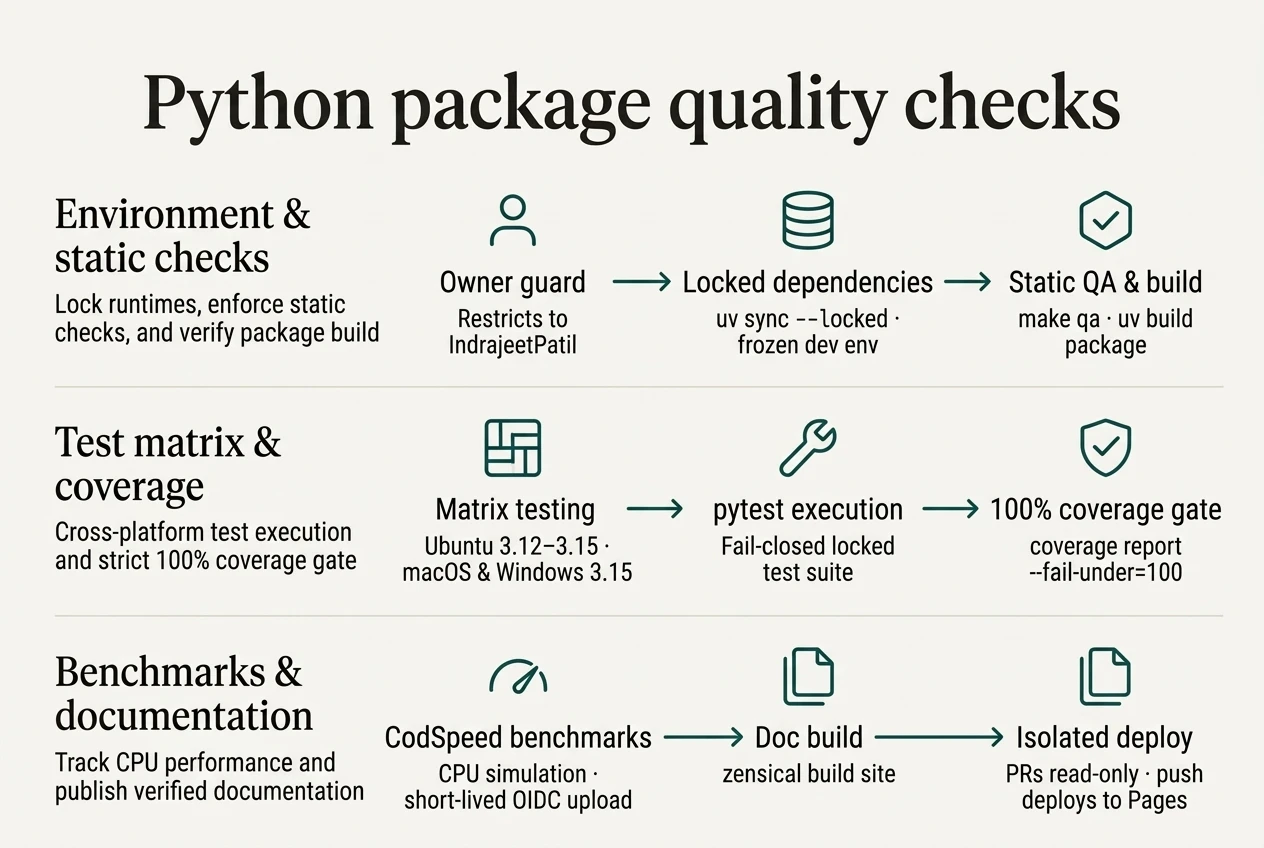
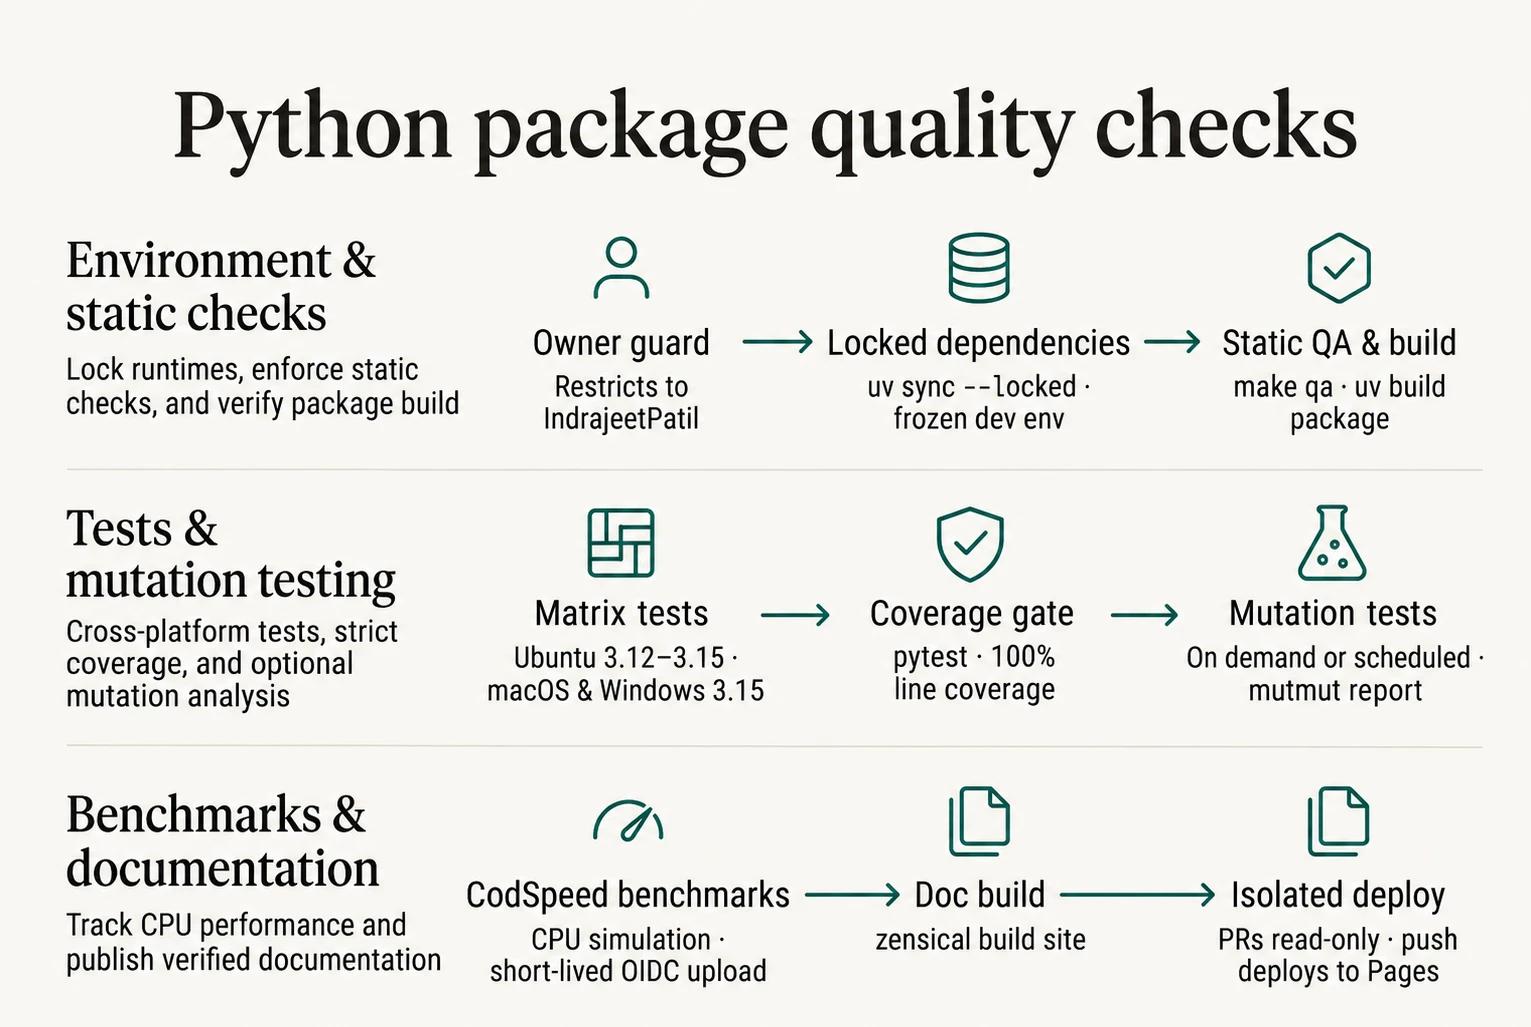
docs(workflows): document web application workflows (#148)
## Summary

- Document usage for generic checks and web application workflows.
- Add web applications as a distinct family in the README and its
illustration.
- Update the Python package quality illustration and its prompt to show
the
  mutation-testing workflow.

## Drive-by cleanup

- Correct the catalogue description for the R formatting workflow: it
checks
  formatting and does not suggest or apply changes.

## Validation

- `git diff --check`
- Commit hooks passed, including Markdown lint and spelling.

diff --git a/docs/workflow-catalogue.md b/docs/workflow-catalogue.md
@@ -10,11 +10,11 @@ permissions.
 |----------|-------------|--------|
 | [`python-benchmarks.yaml`](../.github/workflows/python-benchmarks.yaml) | Run CodSpeed CPU simulation benchmarks with OIDC uploads | — |
 | [`python-docs.yaml`](../.github/workflows/python-docs.yaml) | Build and deploy Python package documentation to GitHub Pages | — |
-| [`python-mutation-test.yaml`](../.github/workflows/python-mutation-test.yaml) | Run `make mutation-test` with mutmut and upload the `mutants/` report | — |
+| [`python-mutation-test.yaml`](../.github/workflows/python-mutation-test.yaml) | Run `make mutation-test` with mutmut and upload the `mutants/` report even when mutation testing fails | — |
 | [`python-qa.yaml`](../.github/workflows/python-qa.yaml) | Code quality checks, including build and test coverage | — |
 | [`python-test.yaml`](../.github/workflows/python-test.yaml) | Run tests across multiple OS and Python versions | — |
 
-![Python package quality checks: three bands covering environment and static checks, cross-platform test matrix with strict coverage gates, and CPU benchmarks with documentation deployment.](figures/python-package-quality-checks.webp)
+![Python package quality checks: three bands covering environment and static checks, cross-platform tests with coverage and mutation analysis, and CPU benchmarks with documentation deployment.](figures/python-package-quality-checks.webp)
 
 Python package workflows enforce quality gates across three stages:
 
@@ -54,7 +54,7 @@ presentation cells. `prek` itself remains colorized via the `prek-action` defaul
 | Workflow | Description | Inputs / secrets |
 |----------|-------------|--------|
 | [`check-docs.yaml`](../.github/workflows/check-docs.yaml) | Check for broken links using [lychee](https://github.com/lycheeverse/lychee) and spelling using [typos](https://github.com/crate-ci/typos) | — |
-| [`check-formatting.yaml`](../.github/workflows/check-formatting.yaml) | Check and suggest code formatting using [air](https://github.com/posit-dev/air) | — |
+| [`check-formatting.yaml`](../.github/workflows/check-formatting.yaml) | Check R code formatting using [air](https://github.com/posit-dev/air) | — |
 | [`r-benchmarks.yaml`](../.github/workflows/r-benchmarks.yaml) | Benchmark main R API functions with the CodSpeed executable harness and OIDC uploads | — |
 | [`R-CMD-check.yaml`](../.github/workflows/R-CMD-check.yaml) | R CMD check across multiple operating systems plus current, devel, and previous R releases; use `hard: true` for a hard-deps-only CI check (PR-only) | `hard` |
 | [`check-extra.yaml`](../.github/workflows/check-extra.yaml) | Parallel extra checks: no-warnings, random test order, README render | `extra-packages` |
@@ -135,18 +135,14 @@ Both presentation workflows enforce quality gates across three stages:
 
 ## Generic
 
-Generic workflows are language-agnostic and provide utility across diverse
-types of projects, ensuring high code quality and robust documentation
-regardless of the underlying tech stack.
+Generic workflows provide repository checks that apply across language and
+project types.
 
 | Workflow | Description | Inputs / secrets |
 |----------|-------------|--------|
 | [`check-link-rot.yaml`](../.github/workflows/check-link-rot.yaml) | Check for broken links using [lychee](https://github.com/lycheeverse/lychee) | — |
 | [`conventional-commits.yaml`](../.github/workflows/conventional-commits.yaml) | Check every pull-request commit and the pull-request title (the default squash subject) against [Conventional Commits](https://www.conventionalcommits.org) | `extra-types` |
-| [`e2e.yaml`](../.github/workflows/e2e.yaml) | Run Playwright end-to-end tests against web apps with Vite+, uploading report artifacts | — |
-| [`lighthouse.yaml`](../.github/workflows/lighthouse.yaml) | Run Lighthouse CI audits against web apps with Vite+, uploading report artifacts | `command`, `reports-path` |
 | [`prek.yml`](../.github/workflows/prek.yml) | Run every [prek](https://prek.j178.dev/) hook in the caller's config, with no `SKIP` list; fails if a hook would modify files | — |
-| [`prek-web-app.yml`](../.github/workflows/prek-web-app.yml) | `prek.yml` for web apps: installs Vite+ and the locked dependencies first, and passes hooks no GitHub token | — |
 
 Trigger `conventional-commits.yaml` on the `edited` pull-request activity as
 well, so a corrected title is re-checked. Keep it in its own caller workflow:
@@ -170,3 +166,54 @@ jobs:
   conventional-commits:
     uses: IndrajeetPatil/workflows/.github/workflows/conventional-commits.yaml@main
 ```
+
+### Documentation checks
+
+Use `check-docs.yaml` for repositories whose documentation is Markdown, HTML,
+or reStructuredText. It runs lychee across those files and checks spelling with
+typos. Use `check-link-rot.yaml` for repositories with additional plain-text or
+Quarto sources: it checks Markdown, HTML, reStructuredText, Quarto, and text
+files, including link fragments, and requires HTTPS where available. Both
+checks fail when a broken link or spelling issue is found.
+
+`check-formatting.yaml` is for R repositories. It installs air and checks the
+repository with `air format . --check`; it does not rewrite files.
+
+### Commit messages and hooks
+
+`conventional-commits.yaml` validates every commit in the pull request and its
+title, which becomes the default squash commit subject. Call it on `edited` as
+well as the usual pull-request activities so title-only changes are checked
+without rerunning heavier jobs. The optional `extra-types` input accepts
+space-separated lowercase commit types in addition to the standard types.
+
+Use `prek.yml` when hooks need no project dependencies. It runs all configured
+hooks and fails if a hook modifies a file; leave hooks that should not run out
+of the caller's hook configuration instead of using `SKIP`.
+
+## Web applications
+
+| Workflow | Description | Inputs / secrets |
+|----------|-------------|--------|
+| [`e2e.yaml`](../.github/workflows/e2e.yaml) | Run Playwright end-to-end tests with Vite+ and upload the report | — |
+| [`lighthouse.yaml`](../.github/workflows/lighthouse.yaml) | Run Lighthouse CI audits with Vite+ and upload reports | `command`, `reports-path` |
+| [`prek-web-app.yml`](../.github/workflows/prek-web-app.yml) | Run prek hooks after installing Vite+ and locked dependencies, without passing hooks a GitHub token | — |
+
+`e2e.yaml` installs the Node version from `.node-version`, installs the frozen
+Vite+ lockfile dependencies and Playwright browsers, then runs
+`vp exec playwright test`. It uploads the Playwright report for 14 days, even
+when tests fail, so callers can inspect the failure details.
+
+`lighthouse.yaml` installs the same Vite+ toolchain and executes a caller
+command, defaulting to `vp run lighthouse`. The `command` input can select a
+project-specific audit command; `reports-path` selects the report directory
+and defaults to `.lighthouseci/`. The workflow uploads that directory as a
+14-day artifact and fails if the directory contains no files.
+
+Both web workflows cancel an older run for the same workflow and ref when a
+newer run starts. Their caller should provide `.node-version`, a frozen lock
+file, and the corresponding project scripts and Playwright configuration.
+
+Web applications whose hooks execute project code or require locked
+dependencies should use `prek-web-app.yml`. It installs Vite+ and the frozen
+dependencies first and withholds the GitHub token from hooks.

diff --git a/README.md b/README.md
@@ -7,18 +7,20 @@
 > intended as general-purpose templates. This documentation describes how the
 > owner's repositories use them; it is not a set-up guide for other users.
 
-Reusable workflows for package checks, documentation, and presentations.
+Reusable workflows for package checks, documentation, web applications, and
+presentations.
 Callers reference `@main`; changes here reach them after a pull request
 passes this repository's security and prek checks.
 
-![Four workflow families in equal panels: the Python logo beside a test flask, an R inside a package box, a presentation slide with a chart, and a chain link beside a two-node workflow.](docs/figures/workflow-families.webp)
+![Five workflow families in equal panels: Python package checks, R package checks, Quarto presentations, generic link and commit checks, and web application testing and audits.](docs/figures/workflow-families.webp)
 
 | Family | Purpose | Workflows |
 | --- | --- | --- |
 | Python | Package tests, mutation testing, quality checks, and docs | [Python catalogue](docs/workflow-catalogue.md#python-packages) |
 | R | Package checks, benchmarks, sites, coverage, and releases | [R catalogue](docs/workflow-catalogue.md#r-packages) |
 | Presentations | Quarto RevealJS builds and deployment | [Presentation catalogue](docs/workflow-catalogue.md#presentations) |
-| Generic | Link and commit checks | [Generic catalogue](docs/workflow-catalogue.md#generic) |
+| Generic | Documentation, link, commit, and hook checks | [Generic catalogue](docs/workflow-catalogue.md#generic) |
+| Web applications | Playwright end-to-end tests, Lighthouse audits, and Vite+ hooks | [Web application catalogue](docs/workflow-catalogue.md#web-applications) |
 
 ## Quick start
 
